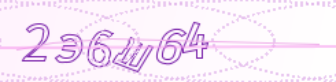
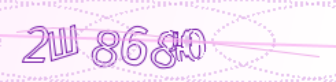
Первая попытка переноса регистрации в telegram

Changed region(s): [[0.0, 0.2439, 0.9524, 0.9024]]

diff --git a/diary/handlers/authorize.py b/diary/handlers/authorize.py
@@ -1,14 +1,15 @@
-from aiogram import types, Router, F
-from aiogram.fsm.context import FSMContext
-from aiogram.fsm.state import StatesGroup, State
-
-from aiogram.types import ContentType, Message
-
-from handlers.keyboards import SIGNUP_CORRECT_KEYBOARD 
-from templates import render_template
-
 import re
 
+from aiogram import F, Router, types
+from aiogram.fsm.context import FSMContext
+from aiogram.fsm.state import State, StatesGroup
+from aiogram.types import ContentType, Message
+
+from config import BASE_DIR
+from handlers.keyboards import SIGNUP_CORRECT_KEYBOARD
+from selenium_parser.BasePages import SearchHelper
+from services.user import User
+from templates import render_template
 
 EMAIL_REGEX = r"^\S+@\S+\.\S+$"
 PHONE_NUMBER_REGEX = r"^((8|\+7)[\- ]?)?(\(?\d{3}\)?[\- ]?)?[\d\- ]{7,10}$"
@@ -22,6 +23,8 @@ class SignUp(StatesGroup):
     login = State()
     password = State()
     correct_data = State()
+    text_anomaly = State()
+    photo_anomaly = State()
     oauth2 = State()
 
 
@@ -71,11 +74,77 @@ async def get_password(message: Message,
 async def correct_data(callback: types.CallbackQuery,
                        state: FSMContext):
     user_data = await state.get_data()
-    await callback.message.answer(f"{user_data['login']}, {user_data.get('password')}")
-    await callback.message.delete()
-    await state.clear()
+    user = User(username=user_data["login"],
+                password=user_data["password"],
+                telegram_id = callback.message.from_user.id)
+    await callback.message.edit_text(f"Пытаюсь войти...")
     await callback.answer()
 
+    driver = SearchHelper()
+    driver.go_to_diary_page()
+    driver.go_to_gosuslugi_login_page()
+    driver.authorize(user)
+    anomaly = driver.check_anomaly(user.telegram_id)
+    if type(anomaly) == str:
+        await callback.message.edit_text(await render_template("captcha.j2", {"captcha": anomaly}))
+        user_data.update({"driver": driver})
+        await state.set_state(SignUp.text_anomaly)
+        return
+
+    elif anomaly:
+        await callback.message.edit_text(await render_template("captcha.j2"))
+        photo = InputFile(f"{BASE_DIR}/temp/{user.telegram_id}.png")
+        await callback.message.answer_photo(photo)
+        user_data.update({"driver": driver})
+        await state.set_state(SignUp.photo_anomaly)
+        return 
+
+    elements = driver.user_has_oauth2()
+    if elements:
+        await callback.message.edit_text(await render_template("oauth2.j2"))
+        user_data.update({"driver": driver,
+                          "elements": elements})
+        await state.set_state(SignUp.oauth2)
+        return
+    driver.open_diary()
+    parcipiant_id = driver.get_participant_id()
+    await callback.message.answer(parcipiant_id)
+
+
+@router.message(SignUp.oauth2)
+async def oauth2(message: Message,
+                 state: FSMContext):
+    user_data = await state.get_data()
+    driver: SearchHelper = user_data["driver"]
+    elements = user_data["elements"]
+    value = message.text.lower()
+    driver.send_authenticator_code(value, elements)
+
+    driver.open_diary()
+    parcipiant_id = driver.get_participant_id()
+    await message.answer(parcipiant_id)
+
+
+@router.message(SignUp.photo_anomaly)
+async def photo_anomaly(message: Message,
+                        state: FSMContext):
+    user_data = await state.get_data()
+    driver: SearchHelper = user_data["driver"]
+    value = message.text.lower()
+    driver.fix_photo_anomaly(value)
+    await state.set_state(SignUp.oauth2)
+
+
+@router.message(SignUp.text_anomaly)
+async def text_anomaly(message: Message,
+                  state: FSMContext):
+    user_data = await state.get_data()
+    driver: SearchHelper = user_data["driver"]
+    value = message.text.lower()
+    driver.fix_captcha_anomaly(value)
+    await state.set_state(SignUp.oauth2)
+
+    
 
 @router.callback_query(F.data == "password_incorrect")
 async def password_incorrect(callback: types.CallbackQuery,

diff --git a/diary/selenium_parser/BasePages.py b/diary/selenium_parser/BasePages.py
@@ -1,12 +1,12 @@
 from typing import Literal
-from selenium.webdriver.common.by import By
+
 from selenium.common.exceptions import TimeoutException
+from selenium.webdriver.common.by import By
 from selenium.webdriver.remote.webelement import WebElement
 
-
+from config import BASE_DIR
 from diary.selenium_parser.BaseApp import BasePage
 from diary.services.user import User
-
 
 
 class COOKIE_DOESNT_EXISTS(Exception):
@@ -114,12 +114,12 @@ class SearchHelper(BasePage):
         self.find_element(GosUslugiSearchLocators.LOCATOR_OF_ANOMALY_TEXT_INPUT_FIELD).send_keys(code)
         self.find_element(GosUslugiSearchLocators.LOCATOR_OF_ANOMALY_TEXT_BUTTON).click()
 
-    def check_anomaly(self):
+    def check_anomaly(self, telegram_id: int):
         "Проверяет на наличие аномалий при авторизации."
         try:
             if self.find_element(GosUslugiSearchLocators.LOCATOR_OF_ANOMALY_CLASS):
                 try:
-                    self.find_element(GosUslugiSearchLocators.LOCATOR_OF_IMAGE_CAPTCHA, time=2).screenshot("test.png")
+                    self.find_element(GosUslugiSearchLocators.LOCATOR_OF_IMAGE_CAPTCHA, time=2).screenshot(f"{BASE_DIR}/temp/{telegram_id}.png")
                     return True
                 except TimeoutException:
                     captcha_anomaly = self.find_element(GosUslugiSearchLocators.LOCATOR_OF_TEXT_CAPTCHA, time=2).text

diff --git a/diary/__main__.py b/diary/__main__.py
@@ -2,6 +2,7 @@ import json
 
 from diary.selenium_parser.BasePages import SearchHelper
 from diary.services.user import test_user
+from templates import render_template
 
 
 def write_cookie_to_file(cookies, file: str = "cookies.json"):
@@ -9,14 +10,14 @@ def write_cookie_to_file(cookies, file: str = "cookies.json"):
         json.dump(cookies, f)
 
 
-def get_parcipiant_id():
+async def get_parcipiant_id(message):
     driver = SearchHelper()
     driver.go_to_diary_page()
     driver.go_to_gosuslugi_login_page()
     driver.authorize(test_user)
     anomaly = driver.check_anomaly()
-    print(anomaly)
     if type(anomaly) == str:
+        await message.answer(render_template("captcha.j2", {"captcha": anomaly}))
         driver.fix_captcha_anomaly(input("Введите код из проверки капчи: "))
     elif anomaly:
         driver.fix_photo_anomaly(input("Введите код из проверки фото капчи: "))

diff --git a/diary/handlers/start.py b/diary/handlers/start.py
@@ -3,7 +3,6 @@ from aiogram.filters import CommandStart
 from aiogram.types import Message
 from aiogram.utils.keyboard import InlineKeyboardBuilder
 
-
 router = Router()
 
 
@@ -16,6 +15,5 @@ async def command_start(message: Message):
             callback_data="signup"))
         await message.answer("Привет, похоже ты здесь впервые!",
                              reply_markup=builder.as_markup())
-        await message.answer_photo("blob:https://esia.gosuslugi.ru/fcf30a93-c676-4201-b97a-d7c1d924afca")
     else:
         await message.answer(f"Привет, хозяин!")

diff --git a/diary/test.py b/diary/test.py
@@ -1,10 +1,3 @@
-import urllib.request as request
+from config import BASE_DIR
 
-url = "blob:https://esia.gosuslugi.ru/6f340a4c-ae59-4e74-b08f-0777b4afaf91" 
-# fake user agent of Safari
-fake_useragent = 'Mozilla/5.0 (iPad; CPU OS 6_0 like Mac OS X) AppleWebKit/536.26 (KHTML, like Gecko) Version/6.0 Mobile/10A5355d Safari/8536.25'
-r = request.Request(url, headers={'User-Agent': fake_useragent})
-f = request.urlopen(r)
-
-# print or write
-print(f.read())
+print(BASE_DIR)

diff --git a/diary/handlers/diary.py b/diary/handlers/diary.py
@@ -1,10 +1,12 @@
 from aiogram import Router
 from aiogram.filters import Command, CommandObject
 from aiogram.types import Message
-from api.diary import get_lessons
-from templates import render_template
 from dateparser import parse
+
+from api.diary import get_lessons
 from services.user import test_user
+from templates import render_template
+
 router = Router()
 
 

diff --git a/diary/api/diary.py b/diary/api/diary.py
@@ -1,10 +1,9 @@
 import datetime
 
+import aiohttp
 from pydantic import BaseModel
 
-import aiohttp
 from services.user import User
-
 
 WEEKDAYS = ("Понедельник", "Вторник", "Среда",
             "Четверг", "Пятница", "Суббота", "Воскресенье")

diff --git a/diary/test_aiogram.py b/diary/test_aiogram.py
@@ -4,7 +4,8 @@ import sys
 
 from aiogram import Bot, Dispatcher
 from aiogram.enums import ParseMode
-from handlers import diary, start, authorize
+
+from handlers import authorize, diary, start
 
 TOKEN = "6578207532:AAG1LuO53xhl3sKEeChzCrrLJADY2CdcvzA"
 

diff --git a/diary/services/user.py b/diary/services/user.py
@@ -1,7 +1,6 @@
 from dataclasses import dataclass
 from typing import LiteralString
 
-
 from diary.config import GOSUSLUGI_LOGIN, GOSUSLUGI_PASSWORD
 
 

diff --git a/diary/templates.py b/diary/templates.py
@@ -1,5 +1,6 @@
-import config
 import jinja2
+
+import config
 
 
 async def render_template(template_name: str, data: dict | None= None) -> str:

diff --git a/diary/config.py b/diary/config.py
@@ -1,7 +1,7 @@
 import os
 from pathlib import Path
-from dotenv import load_dotenv 
 
+from dotenv import load_dotenv
 
 load_dotenv()
 
